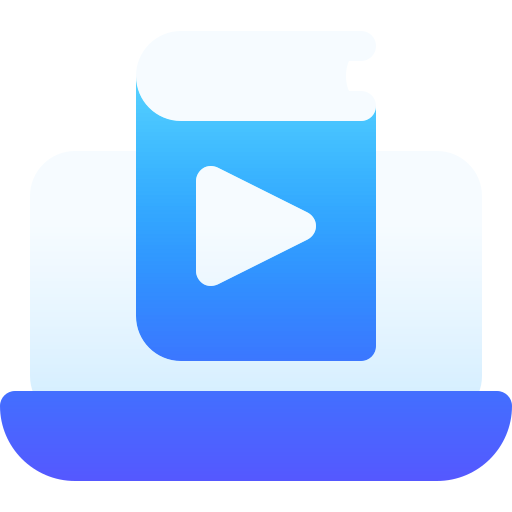
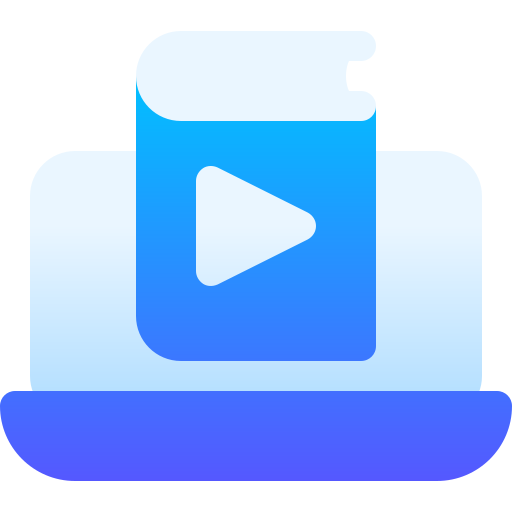
fix(bom): 프로모 카드를 피그마 원본 좌표·색으로 맞추다
랜딩 우측 프로모 카드 2장이 공용 면 토큰 근사값으로 구현돼 시안(2282:60172)과 바탕 그라데이션·글로우 위치·배지 좌표·서체가 어긋났고, zip 아이콘 에셋은 피그마에 올라간 원본과 다른 구버전(연한 블루 그라데이션)이었다. 다크 모드 토큰 체계는 유지한 채 라이트를 시안 원본값으로 정합화한다.

- 카드 전용 bom-promo-* 색 토큰 신설: 라이트=시안 원본(#f2fdfd→#f7f7fb, #edf5fd→#f6f7fa, 글로우 #e3f3ff·#e1edff 계열, 본문 #293a5b, 타이틀 #3199ff, PICK #3a7cff, 테두리 #e3e9f3), 다크=토큰화 전 다크 렌더 팔레트 승계.
- 그라데이션을 bg-linear-to-*/srgb로 고정해 피그마의 sRGB 보간과 중간톤을 일치시킨다(Tailwind v4 기본은 oklab).
- 글로우 사각형·아이콘·배지를 시안 절대좌표로 배치(글로우 152.23/7.49 141×143 클리핑, zip 203.68/48.89·57.62px, video 204.27/43.65·53.9px, PICK 배지 224/19 44×18, NEW 배지 188/35 35×18).
- PICK 점의 blur 4px 글로우 점, NEW 배지 125.617° 흰색 그라데이션 면과 121.608° 텍스트 그라데이션, Noto Sans KR 500 본문 서체를 시안대로 반영.
- 테두리는 ring-black/5 대신 시안의 #e3e9f3 1px 절대배치 오버레이로 교체.
- 아이콘 그림자를 box-shadow에서 drop-shadow로 교체 — 피그마 그림자는 알파 실루엣을 따르므로 PNG 투명 영역까지 번지던 사각 halo를 없앤다.
- promo-zip.png를 피그마 노드(2282:60177) fill 원본으로 교체(로컬은 채도 낮은 다른 버전, rgb 72,196,255 vs 원본 10,180,255). promo-video.png는 픽셀 diff 결과 동일해 유지.

DB 스키마 및 migration 변경은 없다. API 계약과 라우팅 동작도 변경하지 않는다.

검증: pnpm exec eslint apps/web/src/layouts/BomLayout.vue 통과, pnpm --filter web build 통과. 브라우저 실측으로 배지 224/19·점 6/7·글로우점 8.48/7.2·아이콘 좌표 0.01px 단위 일치, computed color #3199ff·#293a5b·#e3e9f3·Noto Sans KR w500, srgb 보간, drop-shadow 적용을 확인했고 캔버스 픽셀 샘플링으로 교체 에셋이 피그마 원본과 동일함을 확인했다. 다크 모드 시각 결과는 기존과 동일함을 스크린샷으로 확인했다.

Changed region(s): [[0.0312, 0.5938, 0.9688, 0.7812], [0.25, 0.1562, 0.75, 0.4062]]

diff --git a/samplepcb-web-mono-app/apps/web/src/layouts/BomLayout.vue b/samplepcb-web-mono-app/apps/web/src/layouts/BomLayout.vue
@@ -250,33 +250,39 @@ const showLandingPromos = computed(() => route.name === 'bom' || onSearchLanding
         </div>
       </main>
 
-      <!-- right side bar (87:21445) — 라이트 치환, 프로모 카드는 시안 그대로.
+      <!-- right side bar (87:21445) — 라이트 치환, 프로모 카드는 시안(2282:60172) 좌표·색 그대로.
            상세(bom-quote)에서는 페이지 자체 우측 패널(주문 정보·예상 견적)이 대신한다. -->
       <aside v-show="rightOpen && showLandingPromos" class="hidden w-[334px] shrink-0 flex-col gap-[12px] px-[24px] pt-[24px] xl:flex">
         <!-- con01: Parts Eyes 튜토리얼 — 링크 미구현 -->
-        <div class="relative h-[132px] w-[286px] overflow-hidden rounded-[10px] bg-gradient-to-l from-surface-raised to-surface-sunken ring-1 ring-black/5" title="튜토리얼 (준비 중)">
-          <div class="absolute right-0 top-0 h-full w-[141px] bg-gradient-to-b from-surface-brand to-surface-sunken blur-[10px]" />
-          <img :src="promoZip" alt="" class="absolute right-[24px] top-[49px] size-[58px] rounded-[10px] shadow-[0px_4px_10px_rgba(89,129,208,0.4)]">
-          <div class="absolute right-[18px] top-[16px] flex h-[18px] items-center gap-[3px] rounded-[10px] bg-surface px-[7px] shadow-[0px_0px_10px_var(--color-line-soft)]">
-            <span class="size-[4px] rounded-full bg-brand" />
-            <span class="text-[10px] font-bold text-brand">PICK</span>
+        <!-- 그라데이션은 /srgb 고정 — 피그마는 sRGB 보간이라 Tailwind v4 기본(oklab)과 중간톤이 어긋난다 -->
+        <div class="relative h-[132px] w-[286px] overflow-hidden rounded-[10px] bg-linear-to-l/srgb from-bom-promo-tuto-bg1 to-bom-promo-tuto-bg2 font-noto" title="튜토리얼 (준비 중)">
+          <div class="absolute left-[152.23px] top-[7.49px] h-[143.23px] w-[141.15px] rounded-[10px] bg-linear-to-b/srgb from-bom-promo-tuto-glow1 to-bom-promo-tuto-glow2 blur-[10px]" />
+          <!-- 아이콘 그림자는 box-shadow(사각 박스 halo)가 아니라 피그마처럼 알파 실루엣을 따르는 drop-shadow -->
+          <img :src="promoZip" alt="" class="absolute left-[203.68px] top-[48.89px] size-[57.62px] rounded-[10px] drop-shadow-[0_4px_10px_rgba(89,129,208,0.4)]">
+          <div class="absolute left-[224px] top-[19px] h-[18px] w-[44px] rounded-[10px] bg-bom-promo-badge shadow-[0px_0px_10px_var(--color-bom-promo-badge-glow)]">
+            <span class="absolute left-[8.49px] top-[7.21px] h-[3.74px] w-[3.69px] rounded-full bg-bom-promo-pick blur-[4px]" />
+            <span class="absolute left-[6px] top-[7px] size-[4px] rounded-full bg-bom-promo-pick" />
+            <span class="absolute left-[13px] top-0 text-[10px] font-bold leading-[18px] text-bom-promo-pick">PICK</span>
           </div>
-          <div class="absolute left-[16px] top-[52px] w-[188px]">
-            <p class="text-[11px] leading-[24px] text-brand">Parts Eyes 이용 방법 튜토리얼</p>
-            <p class="text-[12px] leading-[18px] text-ink">다양한 제조사의 전자부품을<br>파츠아이에서 빠르게 검색하세요</p>
+          <div class="absolute left-[16px] top-[52px] w-[188px] font-medium">
+            <p class="text-[11px] leading-[24px] text-bom-promo-tuto-title">Parts Eyes 이용 방법 튜토리얼</p>
+            <p class="text-[12px] leading-[18px] text-bom-promo-ink">다양한 제조사의 전자부품을<br>파츠아이에서 빠르게 검색하세요</p>
           </div>
+          <div class="pointer-events-none absolute inset-0 rounded-[10px] border border-bom-promo-line" />
         </div>
-        <!-- con02: Gerber Eyes Online 3.0 — 링크 미구현 -->
-        <div class="relative h-[132px] w-[286px] overflow-hidden rounded-[10px] bg-gradient-to-l from-surface-brand-soft to-surface-raised ring-1 ring-black/5" title="Gerber Eyes 소개 영상 (준비 중)">
-          <div class="absolute right-0 top-0 h-full w-[141px] bg-gradient-to-b from-surface-brand to-surface-raised blur-[10px]" />
-          <img :src="promoVideo" alt="" class="absolute right-[28px] top-[44px] size-[54px] rounded-[10px] shadow-[0px_4px_10px_rgba(183,183,183,0.5)]">
-          <div class="absolute left-[188px] top-[35px] rounded-[10px] bg-surface/80 px-[6px] py-[3px] backdrop-blur-[10px]">
-            <span class="bg-gradient-to-br from-[#ff1e22] to-[#af002f] bg-clip-text text-[10px] font-bold text-transparent">NEW</span>
+        <!-- con02: Gerber Eyes Online 3.0 — 링크 미구현. NEW 배지는 영상 아이콘 위에 얹혀
+             backdrop-blur 로 모서리를 비추므로 img 뒤(DOM 순서)에 둔다. -->
+        <div class="relative h-[132px] w-[286px] overflow-hidden rounded-[10px] bg-linear-to-l/srgb from-bom-promo-video-bg1 to-bom-promo-video-bg2 font-noto" title="Gerber Eyes 소개 영상 (준비 중)">
+          <div class="absolute left-[152.23px] top-[7.49px] h-[143.23px] w-[141.15px] rounded-[10px] bg-linear-to-b/srgb from-bom-promo-video-glow1 to-bom-promo-video-glow2 blur-[10px]" />
+          <img :src="promoVideo" alt="" class="absolute left-[204.27px] top-[43.65px] size-[53.9px] rounded-[10px] drop-shadow-[0_4px_10px_rgba(183,183,183,0.5)]">
+          <div class="absolute left-[188px] top-[35px] h-[18px] w-[35px] rounded-[10px] bg-[linear-gradient(125.617deg,var(--color-bom-promo-new-bg1)_0%,var(--color-bom-promo-new-bg2)_88.578%)] backdrop-blur-[10px]">
+            <span class="absolute left-[6px] top-0 bg-[linear-gradient(121.608deg,#ff1e22_11.519%,#af002f_100%)] bg-clip-text text-[10px] font-bold leading-[18px] text-transparent">NEW</span>
           </div>
-          <div class="absolute left-[16px] top-[52px] w-[188px]">
+          <div class="absolute left-[16px] top-[52px] w-[188px] font-medium">
             <p class="text-[11px] leading-[24px] text-[#e95e49]">Gerber Eyes Online 3.0 출시</p>
-            <p class="text-[12px] leading-[18px] text-ink">영상을 통해 편리해진<br>DFM 분석 기능을 확인해 보세요</p>
+            <p class="text-[12px] leading-[18px] text-bom-promo-ink">영상을 통해 편리해진<br>DFM 분석 기능을 확인해 보세요</p>
           </div>
+          <div class="pointer-events-none absolute inset-0 rounded-[10px] border border-bom-promo-line" />
         </div>
       </aside>
     </div>

diff --git a/samplepcb-web-mono-app/apps/web/src/style.css b/samplepcb-web-mono-app/apps/web/src/style.css
@@ -67,6 +67,26 @@
   --color-bom-recent-active-bg: #f1f4f8;
   --color-bom-recent-active-border: #cdd7e5;
 
+  /* BOM 랜딩 프로모 카드(피그마 2282:60172) — 카드 전용 파스텔 그라데이션·글로우라
+     공용 면 토큰과 합치지 않고 시안 원본값을 그대로 둔다. bg=카드 바탕(→왼쪽),
+     glow=우측 블러 사각형(→아래), tuto=con01, video=con02. */
+  --color-bom-promo-tuto-bg1: #f2fdfd;
+  --color-bom-promo-tuto-bg2: #f7f7fb;
+  --color-bom-promo-tuto-glow1: #e3f3ff;
+  --color-bom-promo-tuto-glow2: #f7f9fb;
+  --color-bom-promo-video-bg1: #edf5fd;
+  --color-bom-promo-video-bg2: #f6f7fa;
+  --color-bom-promo-video-glow1: #e1edff;
+  --color-bom-promo-video-glow2: #f2fafc;
+  --color-bom-promo-ink: #293a5b;
+  --color-bom-promo-tuto-title: #3199ff;
+  --color-bom-promo-pick: #3a7cff;
+  --color-bom-promo-line: #e3e9f3;
+  --color-bom-promo-badge: #ffffff;
+  --color-bom-promo-badge-glow: #eeedf5;
+  --color-bom-promo-new-bg1: #ffffff;
+  --color-bom-promo-new-bg2: rgb(255 255 255 / 0.5);
+
   /* 단일검색 결과(피그마 2316:106290) — 표·카트는 일반 BOM 면보다 역할이 세분된다. */
   --color-search-row: #ffffff;
   --color-search-section: #e2e6ec;
@@ -152,6 +172,25 @@
   --color-bom-nav-heading: #c6cfdc;
   --color-bom-recent-active-bg: #1f2632;
   --color-bom-recent-active-border: #3d4757;
+
+  /* BOM 랜딩 프로모 카드 — 다크 카드 시안이 없어, 토큰화 전 다크에서 실제로
+     그리던 면 팔레트(raised/sunken/brand 계열)를 그대로 승계한다. */
+  --color-bom-promo-tuto-bg1: #1f2632;
+  --color-bom-promo-tuto-bg2: #0f131b;
+  --color-bom-promo-tuto-glow1: #16233c;
+  --color-bom-promo-tuto-glow2: #0f131b;
+  --color-bom-promo-video-bg1: #131b2c;
+  --color-bom-promo-video-bg2: #1f2632;
+  --color-bom-promo-video-glow1: #16233c;
+  --color-bom-promo-video-glow2: #1f2632;
+  --color-bom-promo-ink: #dde4ee;
+  --color-bom-promo-tuto-title: #5c9bff;
+  --color-bom-promo-pick: #5c9bff;
+  --color-bom-promo-line: #2c3441;
+  --color-bom-promo-badge: #171c26;
+  --color-bom-promo-badge-glow: #232a35;
+  --color-bom-promo-new-bg1: #171c26;
+  --color-bom-promo-new-bg2: rgb(23 28 38 / 0.5);
 
   /* 단일검색 다크 시안(2285:95005)의 원본 면·입력·외곽선 값. */
   --color-search-row: #131519;
